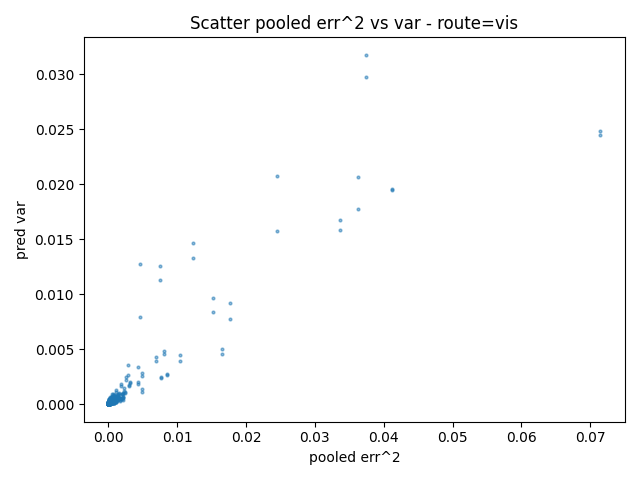
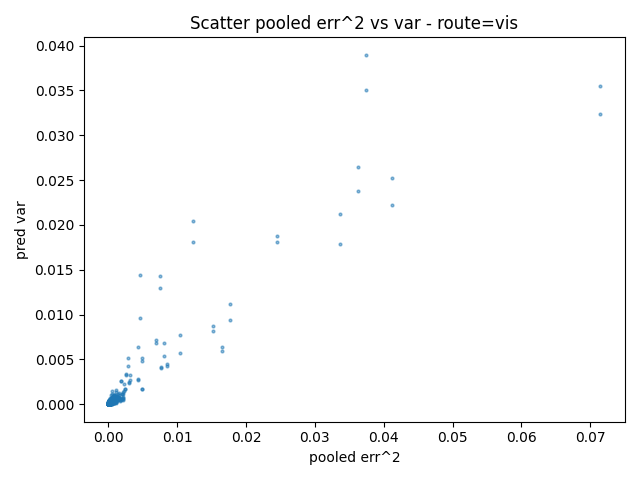
2

diff --git a/train.py b/train.py
@@ -130,18 +130,27 @@ def main():
                 print(f"[early-stop] No improvement for {args.early_patience} epochs. Stopping at epoch {epoch}.")
                 break
 
-    # Final test
+    # Final test - iterate over all batches like eval.py
     ckpt = torch.load(best_path, map_location="cpu")
     model.load_state_dict(ckpt["model"])
     model.to(args.device).eval()
+    
+    agg, n = None, 0
     with torch.no_grad():
-        test_batch = next(iter(test_dl))
-        test_batch = to_device(test_batch, args.device)
-        logv = model(test_batch["X"])
-        if args.route == "vis":
-            tst = route_metrics_vis(test_batch["E2"], logv, test_batch["MASK"], args.logv_min, args.logv_max)
-        else:
-            tst = route_metrics_imu(test_batch["E2"], logv, test_batch["MASK"], args.logv_min, args.logv_max)
+        for batch in test_dl:
+            batch = to_device(batch, args.device)
+            logv = model(batch["X"])
+            if args.route == "vis":
+                st = route_metrics_vis(batch["E2"], logv, batch["MASK"], args.logv_min, args.logv_max)
+            else:
+                st = route_metrics_imu(batch["E2"], logv, batch["MASK"], args.logv_min, args.logv_max)
+            if agg is None: 
+                agg = {k: 0.0 for k in st}
+            for k, v in st.items(): 
+                agg[k] += float(v)
+            n += 1
+    tst = {k: v/n for k, v in agg.items()}
+    
     with open(Path(args.run_dir)/"final_test_metrics.json","w",encoding="utf-8") as f:
         json.dump(tst, f, ensure_ascii=False, indent=2)
     print("[test]", tst)

diff --git a/eval.py b/eval.py
@@ -53,7 +53,7 @@ def main():
                 st = route_metrics_vis(batch["E2"], logv, batch["MASK"],
                                      logv_min=md_args.get("logv_min",-12.0),
                                      logv_max=md_args.get("logv_max",6.0),
-                                     yvar=batch.get("Y", None))
+                                     yvar=None)  # VIS路由不传yvar，避免异常指标
             else:
                 st = route_metrics_imu(batch["E2"], logv, batch["MASK"],
                                      logv_min=md_args.get("logv_min",-12.0),
